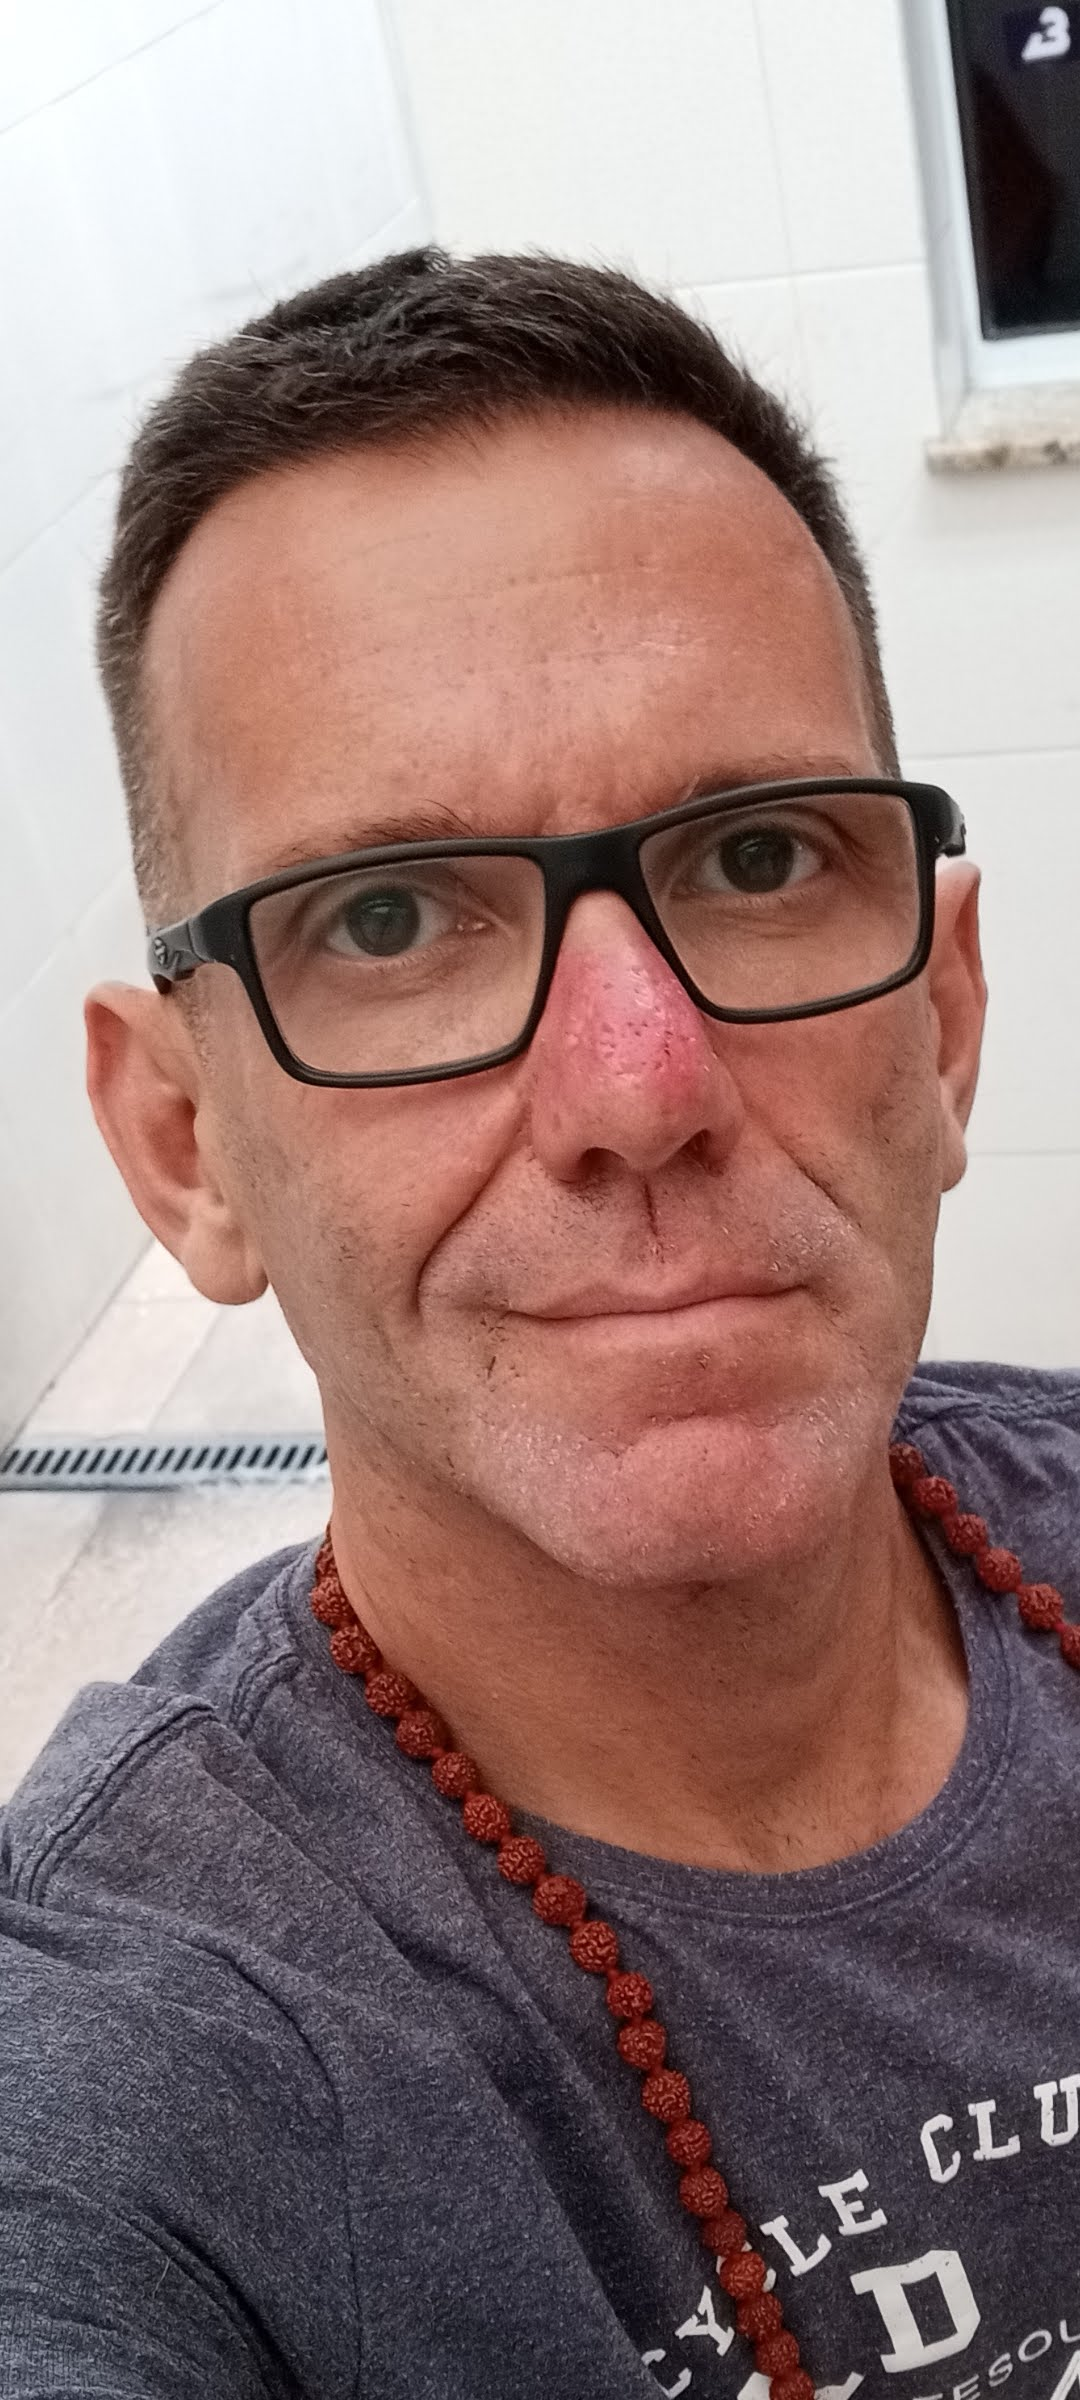
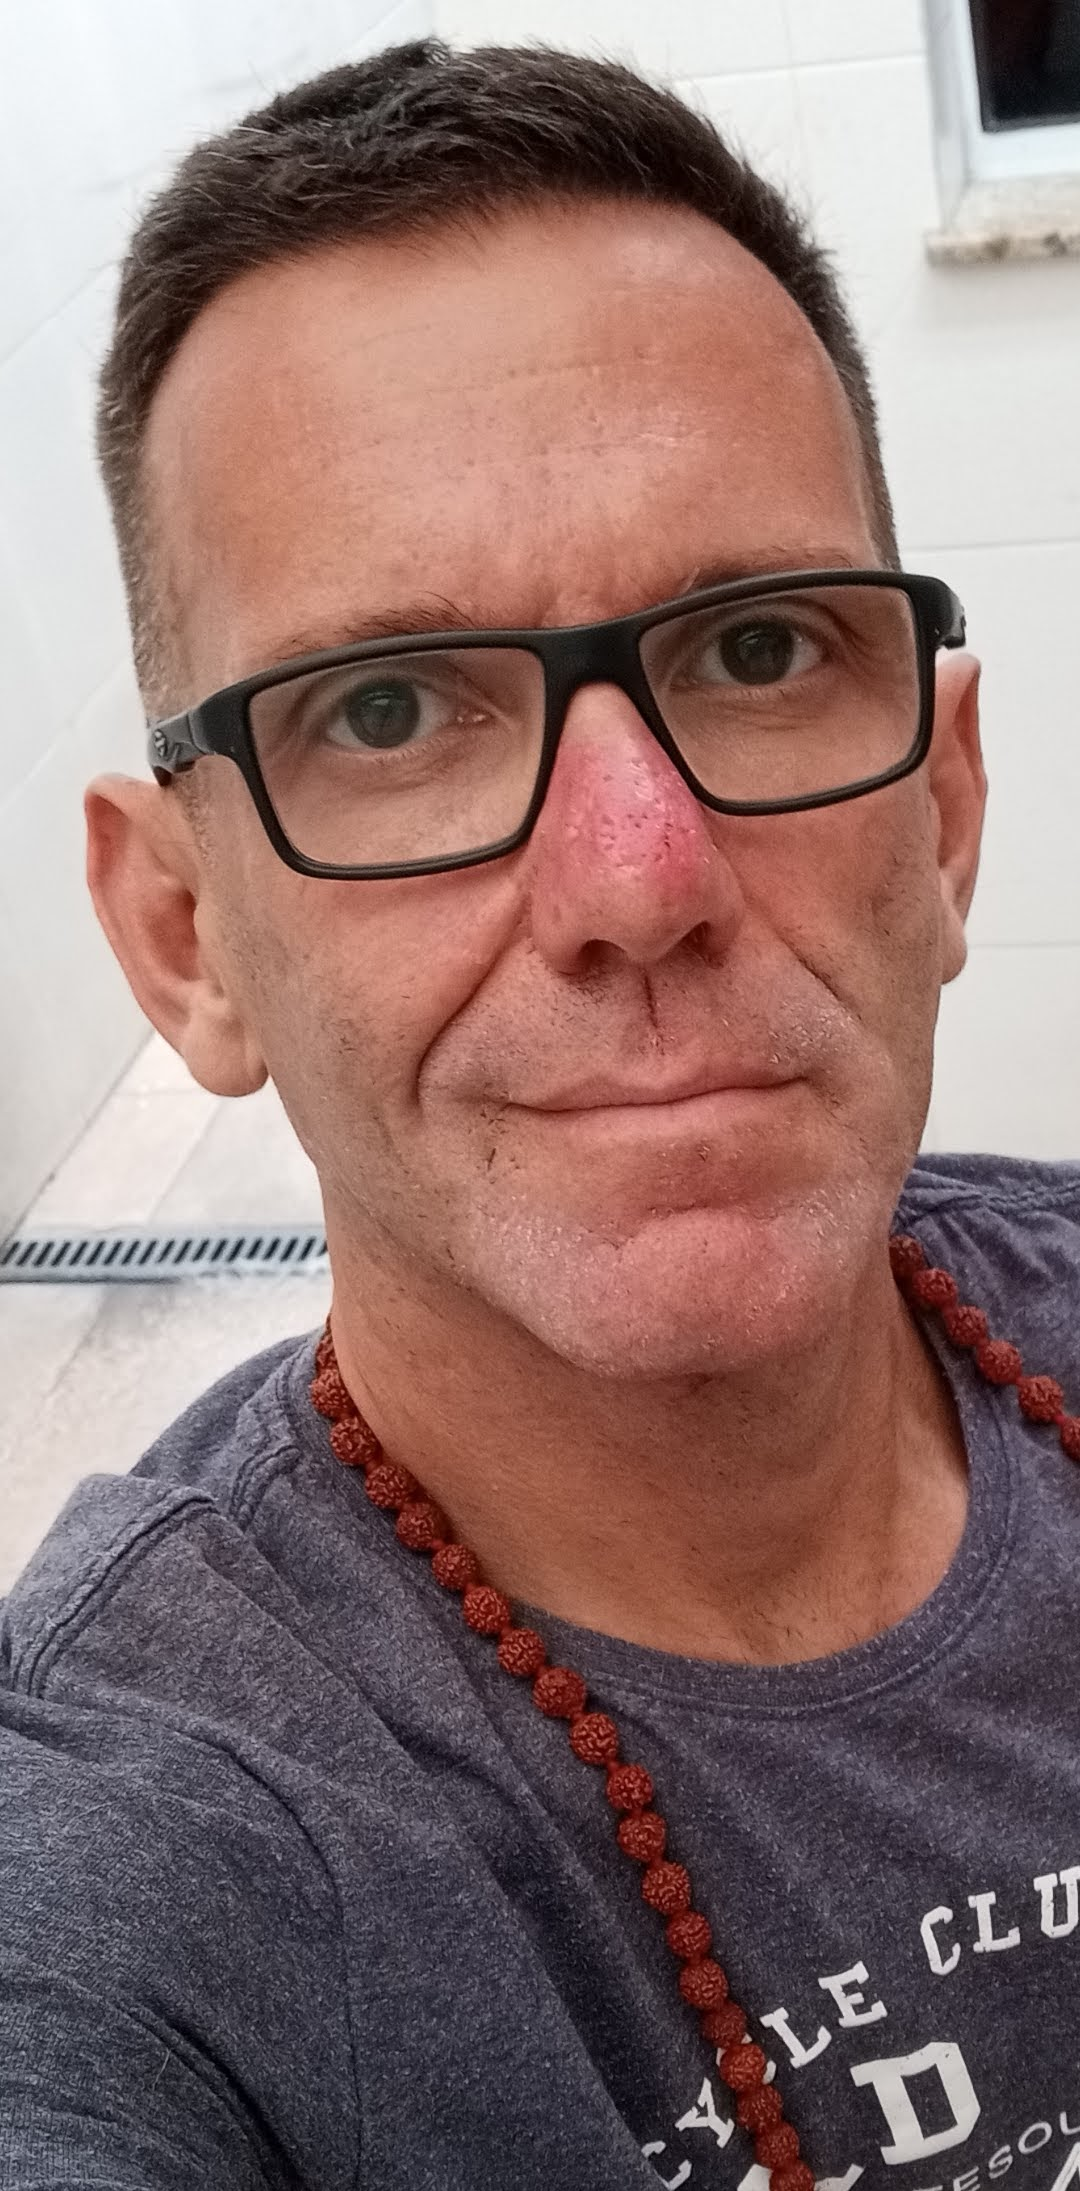
Update

diff --git a/index.html b/index.html
@@ -240,14 +240,14 @@
 
         <br>
 
-        <h1 id="um">
+        <!--<h1 id="um">
             Olha quem eu encontrei escondido no parque do ibirapuera &#128533;<br>
                       
-        </h1> 
+        </h1>--> 
 
         <section class="ss" id="fotos2">
             <div>                               
-                <img class="ft" src="img/galhonoparque.png" alt="">
+                <img class="ft" src="img/Vespera.jpg" alt="">
             </div>
         </section>
 
